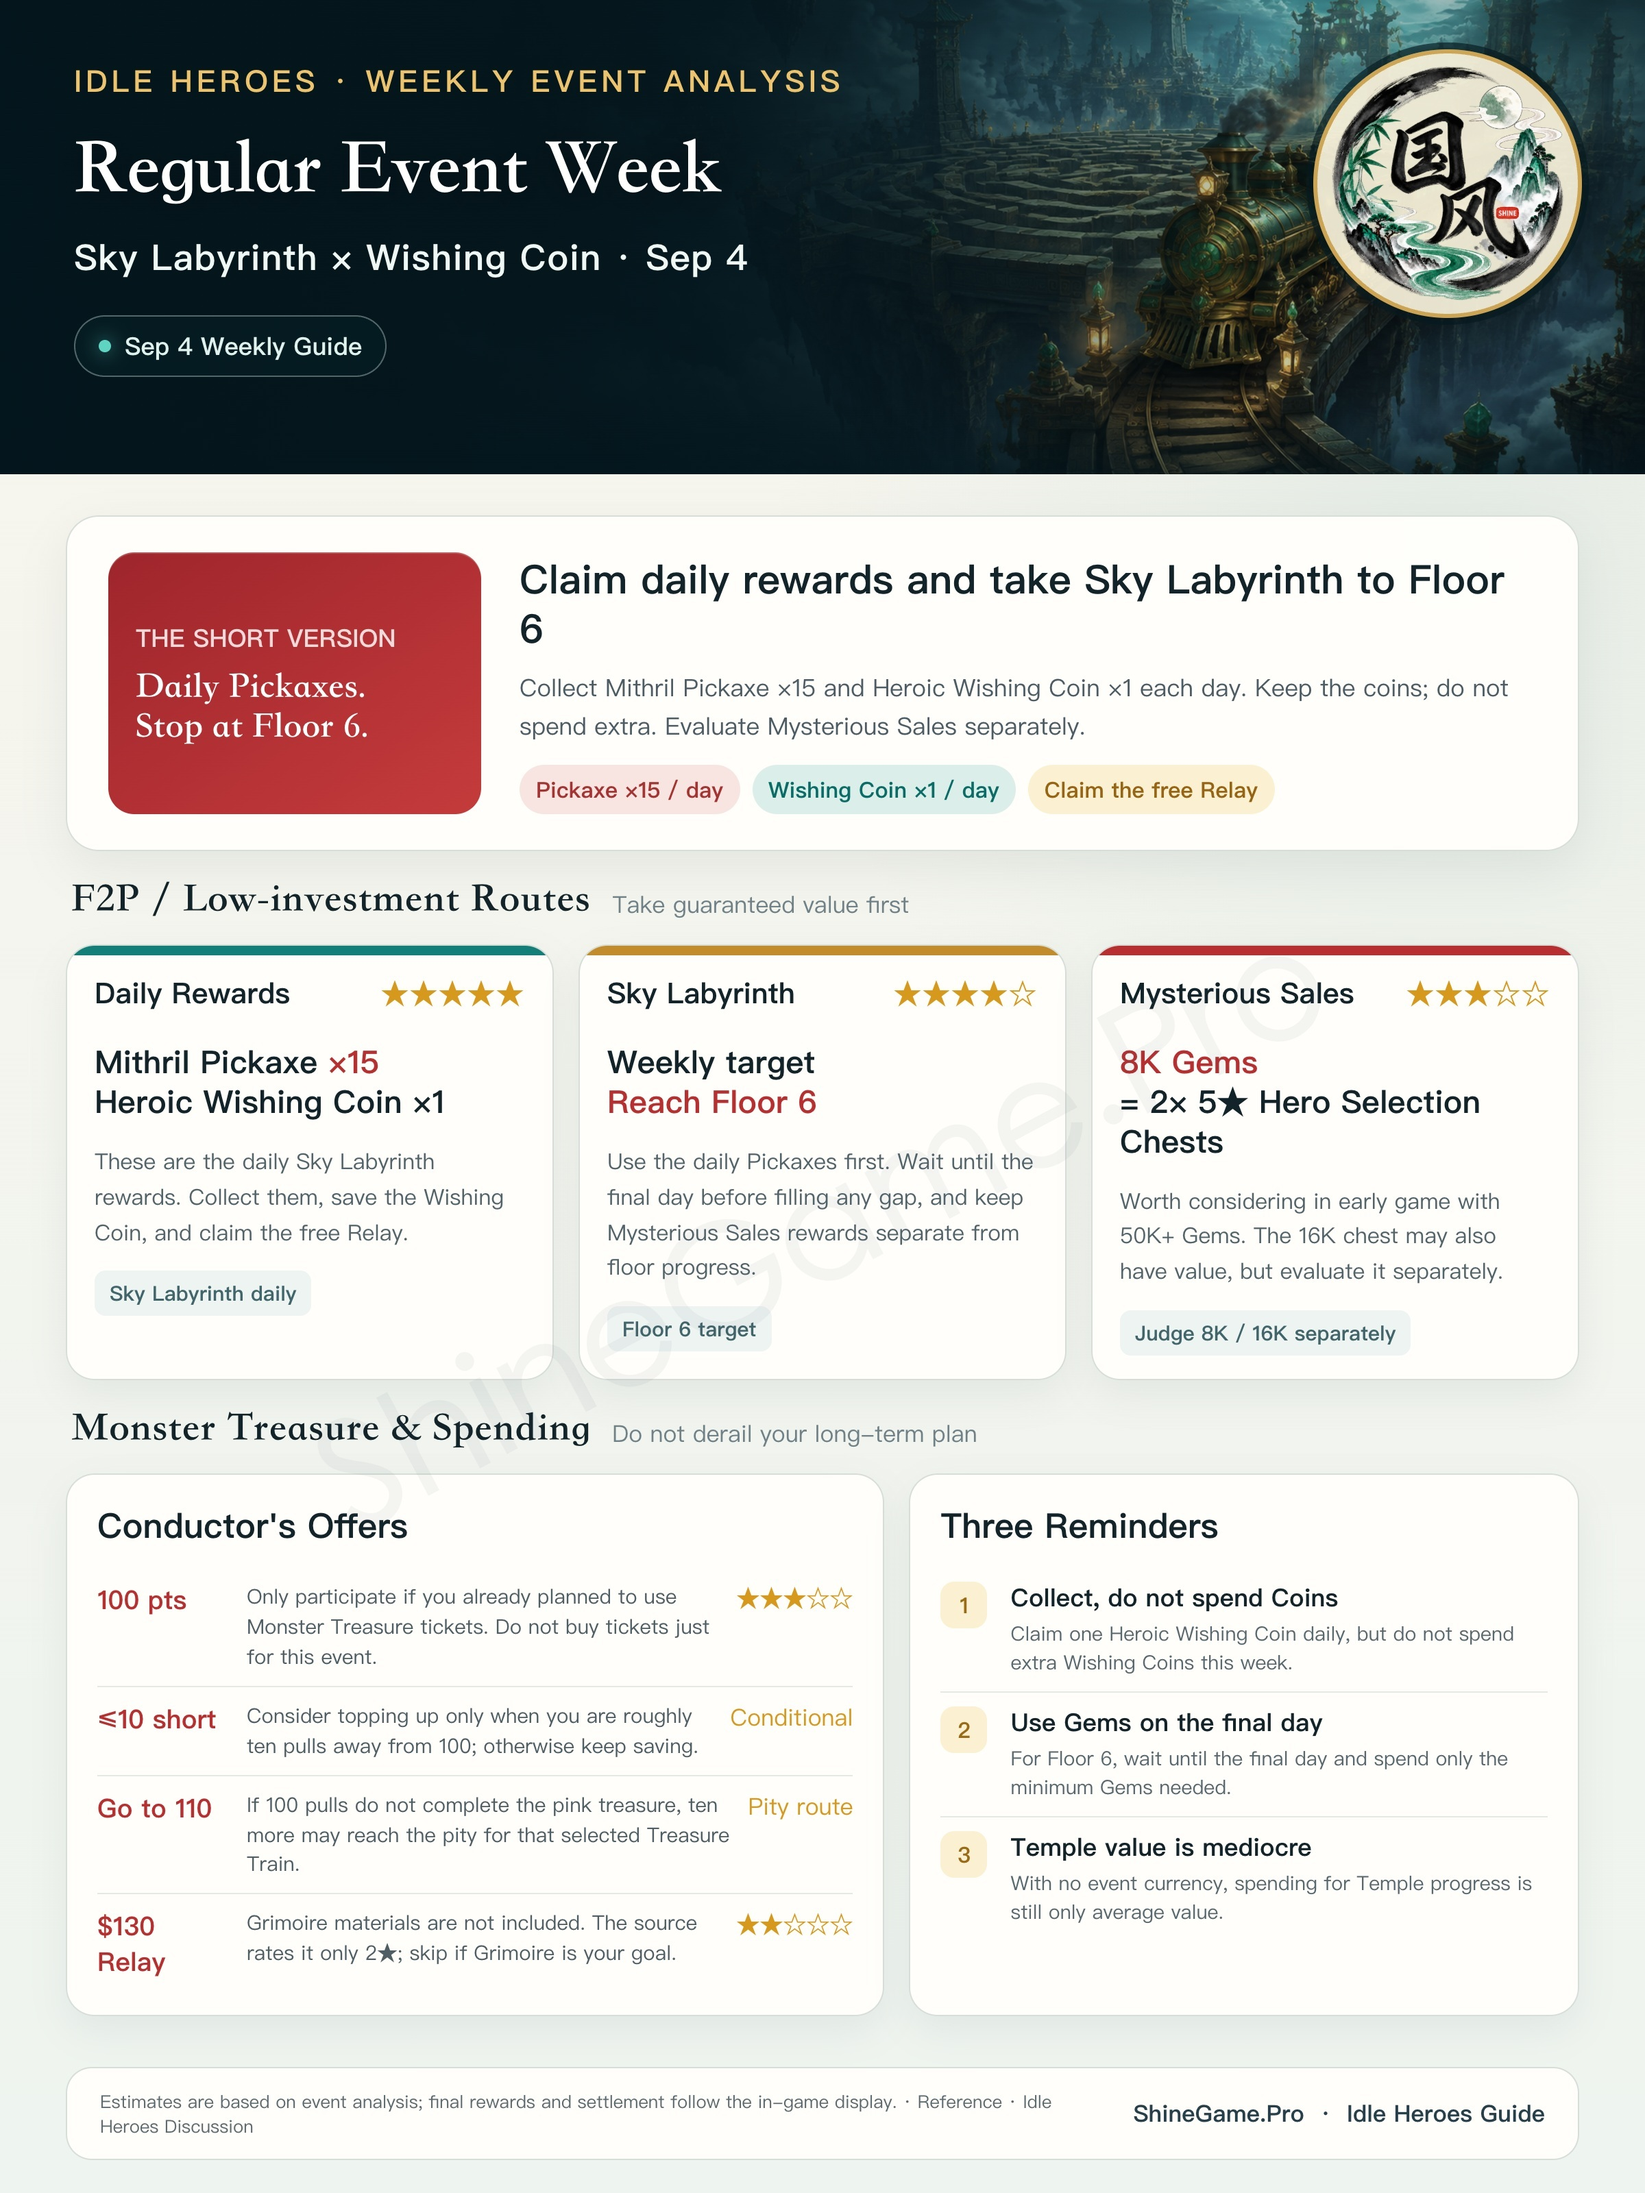
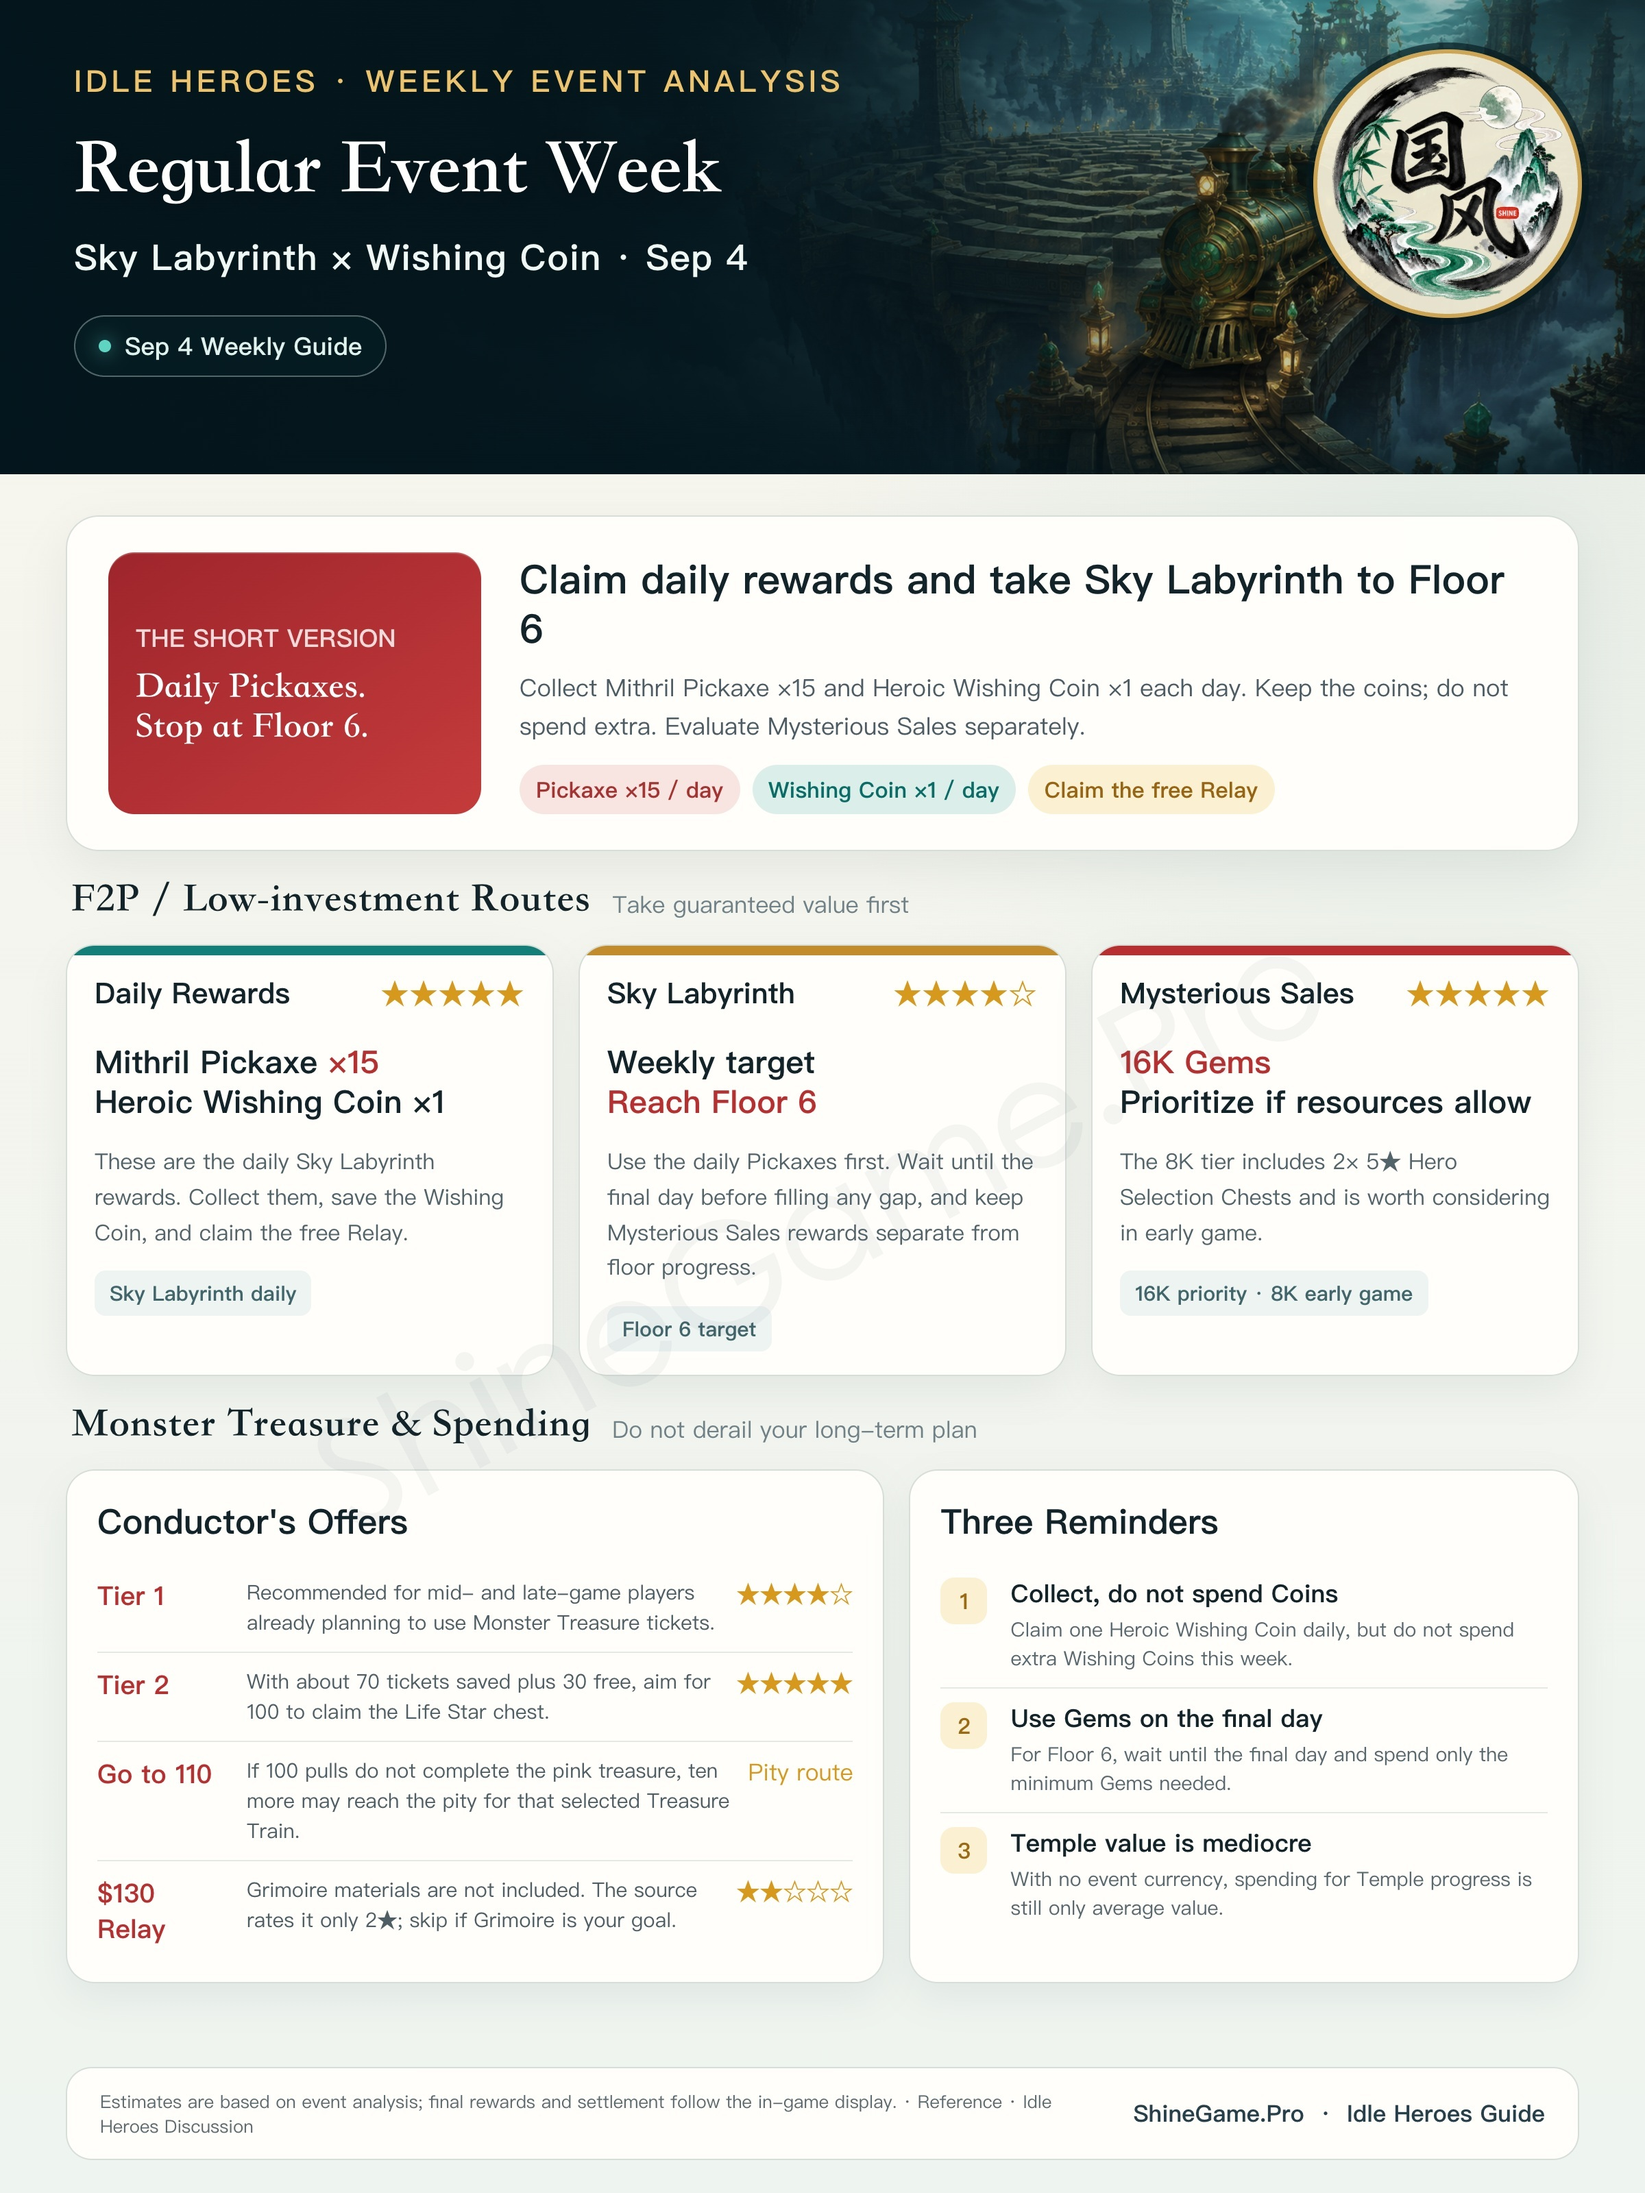
Group weekly guides and update recommendations

diff --git a/flipgame/GuideImages.html b/flipgame/GuideImages.html
@@ -355,18 +355,13 @@
     </div>
 
     <div class="cards" id="guideCards" aria-label="攻略图片列表">
-      <a class="card-link weekly-card" href="images/weekly-event-2026-09-04.jpg" data-image="images/weekly-event-2026-09-04.jpg" data-image-en="images/weekly-event-2026-09-04-en.jpg" data-weekly-current="true">
+      <a class="card-link weekly-card" href="images/weekly-event-2026-09-04.jpg" data-image="images/weekly-event-2026-09-04.jpg" data-image-en="images/weekly-event-2026-09-04-en.jpg" data-images="images/weekly-event-2026-09-04.jpg|images/weekly-event-2026-08-28.jpg" data-images-en="images/weekly-event-2026-09-04-en.jpg|images/weekly-event-2026-08-28-en.jpg" data-weekly-current="true">
         <span class="thumb">
           <img src="images/weekly-event-2026-09-04.jpg" alt="9月4日周活动攻略" id="weeklyCurrentImg" loading="eager" decoding="async" />
           <span class="current-badge" id="weeklyCurrentBadge">本周</span>
         </span>
         <span class="title" id="cardWeeklyTitle">周活动攻略 · 9月4日</span>
         <span class="subtitle" id="cardWeeklySub">普通活动周：天空迷宫、许愿币与魔兽珍宝</span>
-      </a>
-      <a class="card-link" href="images/weekly-event-2026-08-28.jpg" data-image="images/weekly-event-2026-08-28.jpg" data-image-en="images/weekly-event-2026-08-28-en.jpg">
-        <span class="thumb"><img src="images/weekly-event-2026-08-28.jpg" alt="8月28日周活动攻略" id="weeklyAug28Img" loading="lazy" decoding="async" /></span>
-        <span class="title" id="cardWeeklyAug28Title">周活动攻略 · 8月28日</span>
-        <span class="subtitle" id="cardWeeklyAug28Sub">厄斯特尔登场周：战备密保与清巢行动</span>
       </a>
       <a class="card-link" href="images/qihuan.jpg" data-image="images/qihuan.jpg" data-image-en="images/qihuan.jpg">
         <span class="thumb"><img src="images/qihuan.jpg" alt="奇幻梦工厂隐藏关" id="qihuanImg" loading="lazy" decoding="async" /></span>
@@ -473,7 +468,7 @@
   </div>
 
   <script type="module">
-    import { localizedGuideImageList, shouldOpenCurrentWeeklyGuide } from './assets/guide-image-routing.mjs';
+    import { localizedCurrentGuideImageList, localizedGuideImageList, shouldOpenCurrentWeeklyGuide } from './assets/guide-image-routing.mjs';
 
     (function () {
       const navHome = document.getElementById('navHome');
@@ -483,9 +478,6 @@
       const cardWeeklySub = document.getElementById('cardWeeklySub');
       const weeklyCurrentImg = document.getElementById('weeklyCurrentImg');
       const weeklyCurrentBadge = document.getElementById('weeklyCurrentBadge');
-      const cardWeeklyAug28Title = document.getElementById('cardWeeklyAug28Title');
-      const cardWeeklyAug28Sub = document.getElementById('cardWeeklyAug28Sub');
-      const weeklyAug28Img = document.getElementById('weeklyAug28Img');
       const cardQihuanTitle = document.getElementById('cardQihuanTitle');
       const cardQihuanSub = document.getElementById('cardQihuanSub');
       const qihuanImg = document.getElementById('qihuanImg');
@@ -578,9 +570,6 @@
           card_weekly_sub: '普通活动周：天空迷宫、许愿币与魔兽珍宝',
           weekly_alt: '9月4日周活动攻略',
           weekly_badge: '本周',
-          card_weekly_aug28_title: '周活动攻略 · 8月28日',
-          card_weekly_aug28_sub: '厄斯特尔登场周：战备密保与清巢行动',
-          weekly_aug28_alt: '8月28日周活动攻略',
           card_qihuan_title: '奇幻梦工厂隐藏关',
           card_qihuan_sub: '查看隐藏关参考图与说明',
           img_alt: '奇幻梦工厂隐藏关',
@@ -655,9 +644,6 @@
           card_weekly_sub: 'Regular event week: Sky Labyrinth, Wishing Coin, and Monster Treasure',
           weekly_alt: 'Sep 4 weekly event guide',
           weekly_badge: 'This week',
-          card_weekly_aug28_title: 'Weekly Event Guide · Aug 28',
-          card_weekly_aug28_sub: 'Erskor release week: War Cache and Nest Purge',
-          weekly_aug28_alt: 'Aug 28 weekly event guide',
           card_qihuan_title: 'Fantasy Factory Secret Stage',
           card_qihuan_sub: 'Open the secret stage reference image and notes',
           img_alt: 'Fantasy Factory secret stage',
@@ -760,9 +746,6 @@
         if (cardWeeklySub) cardWeeklySub.textContent = t('card_weekly_sub');
         if (weeklyCurrentImg) weeklyCurrentImg.setAttribute('alt', t('weekly_alt'));
         if (weeklyCurrentBadge) weeklyCurrentBadge.textContent = t('weekly_badge');
-        if (cardWeeklyAug28Title) cardWeeklyAug28Title.textContent = t('card_weekly_aug28_title');
-        if (cardWeeklyAug28Sub) cardWeeklyAug28Sub.textContent = t('card_weekly_aug28_sub');
-        if (weeklyAug28Img) weeklyAug28Img.setAttribute('alt', t('weekly_aug28_alt'));
         if (cardQihuanTitle) cardQihuanTitle.textContent = t('card_qihuan_title');
         if (cardQihuanSub) cardQihuanSub.textContent = t('card_qihuan_sub');
         if (qihuanImg) qihuanImg.setAttribute('alt', t('img_alt'));
@@ -1062,7 +1045,7 @@
           const images = localizedImageList(el);
           const titleEl = el.querySelector('.title');
           const title = titleEl ? titleEl.textContent : '';
-          openImageWindow(images, title, el.dataset.weeklyCurrent === 'true');
+          openImageWindow(images, title, el.dataset.weeklyCurrent === 'true' && images.length === 1);
         });
       });
       if (overlayClose) {
@@ -1092,7 +1075,15 @@
       if (shouldOpenCurrentWeeklyGuide(window.location.search)) {
         const currentWeeklyCard = document.querySelector('[data-weekly-current="true"]');
         if (currentWeeklyCard) {
-          openImageWindow(localizedImageList(currentWeeklyCard), cardWeeklyTitle ? cardWeeklyTitle.textContent : '', true);
+          const currentImages = localizedCurrentGuideImageList({
+            image: currentWeeklyCard.getAttribute('data-image'),
+            imageEn: currentWeeklyCard.getAttribute('data-image-en')
+          }, currentLang).map((item) => {
+            if (currentLang !== 'en') return item;
+            const separator = item.includes('?') ? '&' : '?';
+            return `${item}${separator}v=${englishImageVersion}`;
+          });
+          openImageWindow(currentImages, cardWeeklyTitle ? cardWeeklyTitle.textContent : '', true);
         }
       }
       enableOverlayPinchZoom();

diff --git a/docs/guide-images.md b/docs/guide-images.md
@@ -7,9 +7,10 @@
 
 - 攻略图统一放在 `flipgame/images/`。
 - 中文活动名、资源名和付费档位使用 [`docs/guide-translations.md`](guide-translations.md) 中的统一译法。
+- 活动事实可以参考 Discord 等外部资料，但推荐优先级以用户明确确认的口径为准；两者冲突时保留可核实的活动事实，并用用户推荐替换外部攻略的价值判断。图中仍可按实际来源保留 `Reference`。
 - 页面内卡片手动维护标题、图片路径和描述。
-- 主页“周活动攻略”固定链接到 `GuideImages.html?guide=weekly-current`；攻略页用 `data-weekly-current="true"` 标记唯一的本周卡片，并在进入页面时自动打开本周图片。
-- 每周图片使用带日期的稳定文件名：中文 `weekly-event-YYYY-MM-DD.jpg`，英文 `weekly-event-YYYY-MM-DD-en.jpg`。更新当周时新增一组日期文件、把“本周”标记移到新卡片；旧卡片和旧图片保留为历史归档。
+- 主页“周活动攻略”固定链接到 `GuideImages.html?guide=weekly-current`；攻略页只保留一个周活动卡片，`data-image` / `data-image-en` 指向本周图片，`data-images` / `data-images-en` 按新到旧叠放本周与历史周图片。点击攻略页卡片显示完整周攻略图集，从主页进入则只自动打开本周图片。
+- 每周图片使用带日期的稳定文件名：中文 `weekly-event-YYYY-MM-DD.jpg`，英文 `weekly-event-YYYY-MM-DD-en.jpg`。更新当周时新增一组日期文件，并更新唯一周活动卡片的本周路径与历史图集列表；旧图片继续保留为历史归档。
 - 每周攻略默认导出 2400×3200 高清版（或同等 2× 像素密度），发布前必须按实际尺寸检查中英文小字清晰度。
 - 普通站内攻略图保留 ShineGame 二维码；周活动攻略图按下方“周活动国风视觉规范”改用国风公会 Logo。用户明确要求外发无二维码版本时，另存为 `weekly-event-YYYY-MM-DD-<platform>.png`（例如 `-tieba.png`），不替换站内图片。
 - 有文字的站内生成攻略图同时维护英文 `*-en.png` 版本。`GuideImages.html` 读取首页保存的 `localStorage.flipgame_lang`：中文显示原图，英文显示 `data-image-en` / `data-images-en` 指向的英文图。
@@ -76,8 +77,8 @@
 ## 每周活动更新流程
 
 1. 根据当周资料制作中文和英文两张同版式 2400×3200 高清攻略图，按 `weekly-event-YYYY-MM-DD.jpg` / `weekly-event-YYYY-MM-DD-en.jpg` 保存；按实际尺寸检查正文、小字和数字清晰度。
-2. 在 `GuideImages.html` 最前面新增当周卡片，并为它设置 `data-weekly-current="true"`。
-3. 从上周卡片移除 `data-weekly-current` 和“本周”角标，但保留卡片及日期文件作为历史攻略。
+2. 更新 `GuideImages.html` 最前面的唯一周活动卡片：`data-image` / `data-image-en` 改为当周图片，并把当周图片路径插入 `data-images` / `data-images-en` 列表最前面。
+3. 不另建历史周活动卡片；旧日期文件继续保留，并通过周活动卡片的 `data-images` / `data-images-en` 按新到旧叠放查看。
 4. 同时维护卡片的中英文标题、说明、图片路径和替代文本。
 5. 验证主页入口会自动打开当周图，且 `flipgame_lang=zh` / `en` 分别加载中文图 / 英文图。
 6. 周活动站内图使用 `flipgame/assets/guofeng-guild-logo.png`，不放二维码；其他攻略仍保留 ShineGame 二维码。仅在用户明确要求时另存平台外发版，平台后缀需写入文件名且不得覆盖站内图。
